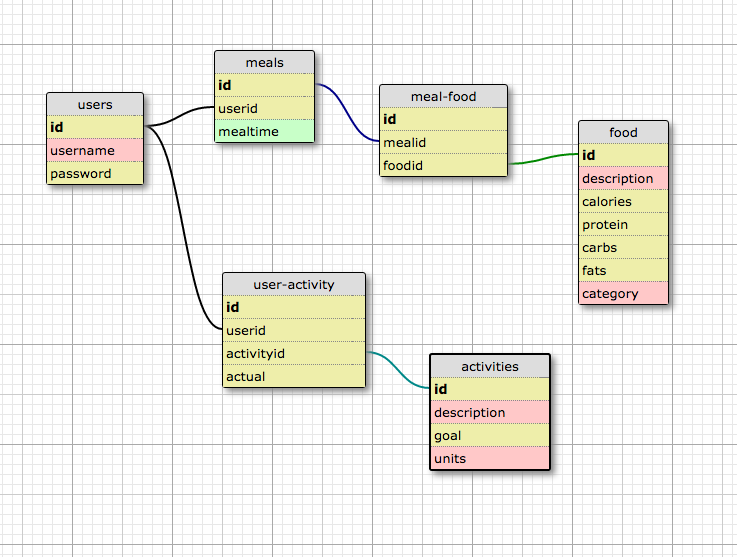
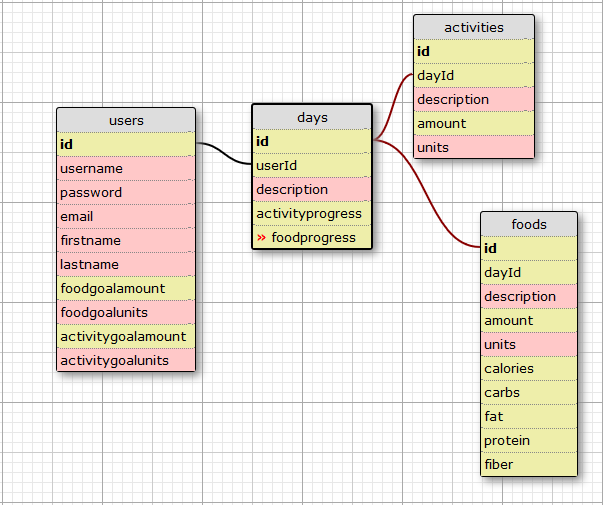
update README to adjust for project changes and add new database diagram

diff --git a/README.md b/README.md
@@ -10,17 +10,12 @@ Epicodus JavaScript Week 5 Group Project by
 * [Garrett Price](https://github.com/GarrettLeePrice)
 * [Karen Freeman-Smith](https://github.com/karenfreemansmith)
 
-An application to track progress on your health and fitness goals written with TypeScript, Sass, Angular 2, and Firebase
+An application to track progress on your health and fitness goals written with Ember.js, Sass, and Firebase
 
 ### Specifications
 * Enter Foods:
-  * Add or edit foods on the list to keep track of their nutritional qualities like calories, fat, carbs, protein (with the possibility of adding more nutritional data)
-  * Allow user to look up foods from an API or enter them by hand.
+  * Add or edit foods on the list to keep track of their nutritional qualities like calories, fat, carbs, protein
   * Foods get an icon based on the category of the food
-* Enter Meals:
-  * Add or edit timestamp for meal
-  * Add foods to a meal (with adjustable portion sizes to calculate their actual values)
-  * Show a summary (possibly a graph) of nutrition by meal, day, week, etc.
 * Set Diet Goals:
   * Set a target goal for daily diet (in calories/fat/carbs/protein etc)
 * Enter Activities:
@@ -28,51 +23,35 @@ An application to track progress on your health and fitness goals written with T
   * Record completed activities with percentage of goal reached
 * Display daily progress with various colored squares for the past year
   * 5 colors (shown as opacity): ... all effort gets some reward, extra effort gets extra reward.
-  * 10% opacity = ANY effort
-  * 30% opacity = 33% effort (? should this be more, 50% maybe?)
-  * 50% opacity = 67% effort (? if other is 50% should this be 75%, 90%?)
-  * 70% opacity = 100% effort
+  * 10% opacity <= 0% effort
+  * 30% opacity > 0% effort
+  * 50% opacity > 50% effort
+  * 70% opacity > 90% effort
   * 90% opacity > 100% effort
-* Store data:
-  * in local storage (if database is not possible)
-  * or, preferably in database with user login
-* (Optional...) Add results tracking (weight/inches):
-  * Add new "check-in"
-  * Display chart of all checkins for date range
+* Store data in Firebase data storage
 
 #### Database Diagram
 ![database diagram](database.png)
 
-
-
 ## Installation
-
 * `git clone <repository-url>` this repository
 * change into the new directory
 * `npm install`
 * `bower install`
 
 ## Running / Development
-
 * `ember serve`
 * Visit your app at [http://localhost:4200](http://localhost:4200).
 
 ### Running Tests
-
 * `ember test`
 * `ember test --server`
 
 ### Building
-
 * `ember build` (development)
 * `ember build --environment production` (production)
 
-### Deploying
-
-Specify what it takes to deploy your app.
-
 ## Further Reading / Useful Links
-
 * [ember.js](http://emberjs.com/)
 * [ember-cli](http://ember-cli.com/)
 * Development Browser Extensions
@@ -83,10 +62,13 @@ Specify what it takes to deploy your app.
 For questions, concerns, or suggestions please email karenfreemansmith@gmail.com
 
 ## Known Issues (*Desired Improvements*)
-*
+* Track user from "sign in" and filter display to only that user's info
+* Add a date object to track progress and logging information, sum totals for day
+* Add API to look up food information (calories and other nutrients)
+* Connect daily progress to heat map based on % of goal met
 
 ## Technologies Used
-TypeScript, Angular2, Sass, Gulp, Bower
+Ember.js, Firebase, Sass, Gulp, Bower
 
 ## Legal
 *Licensed under the GNU General Public License v3.0*
